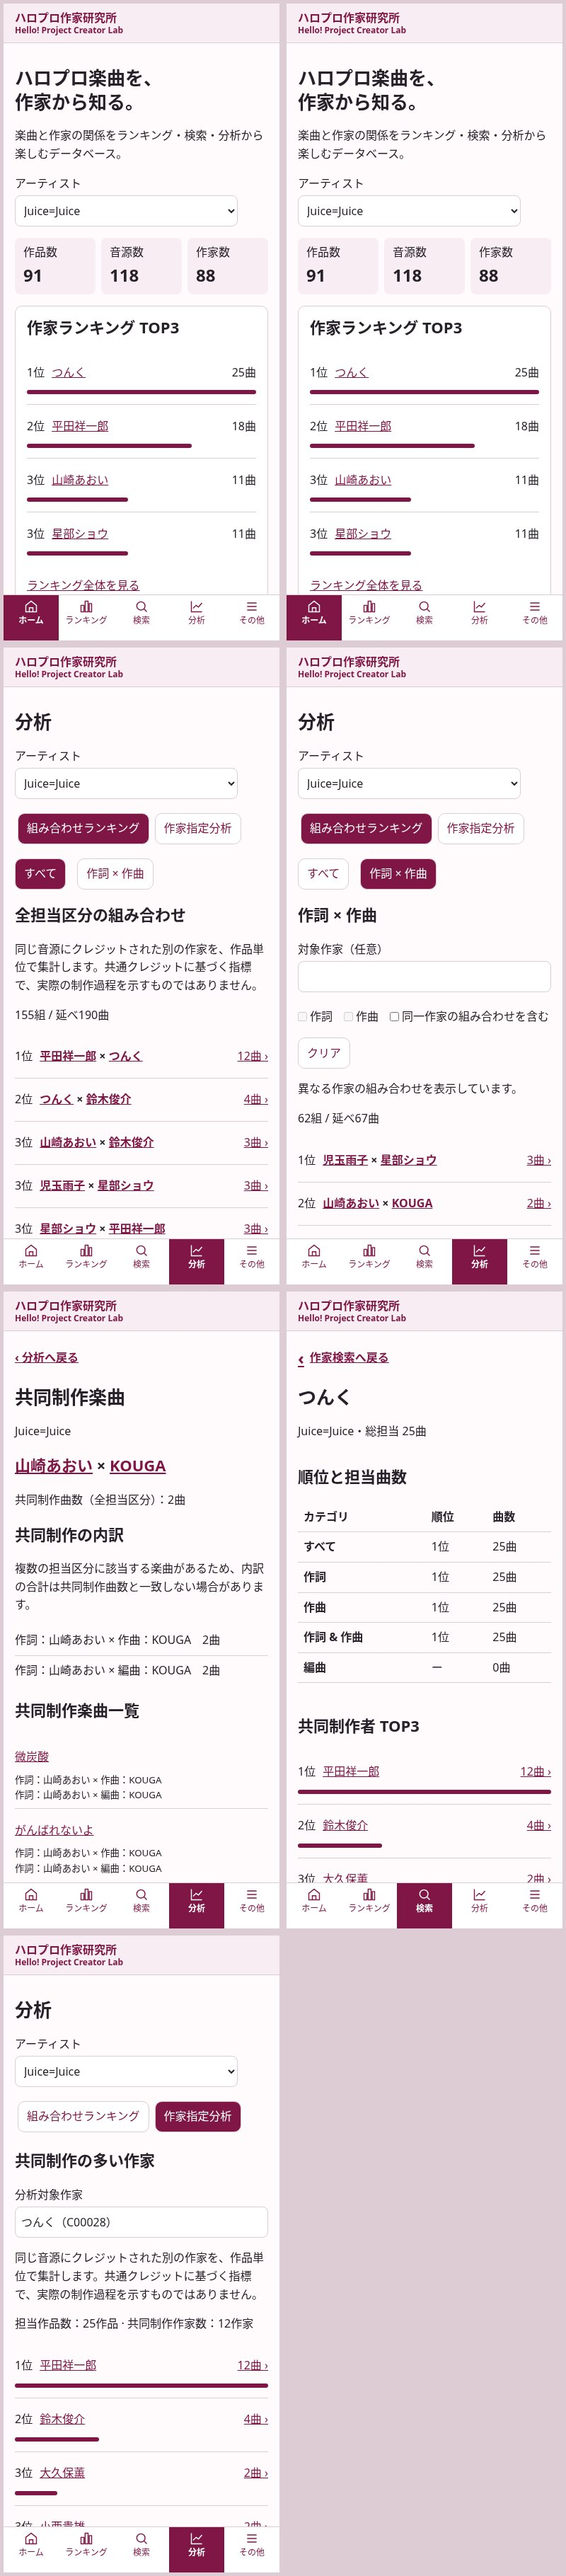
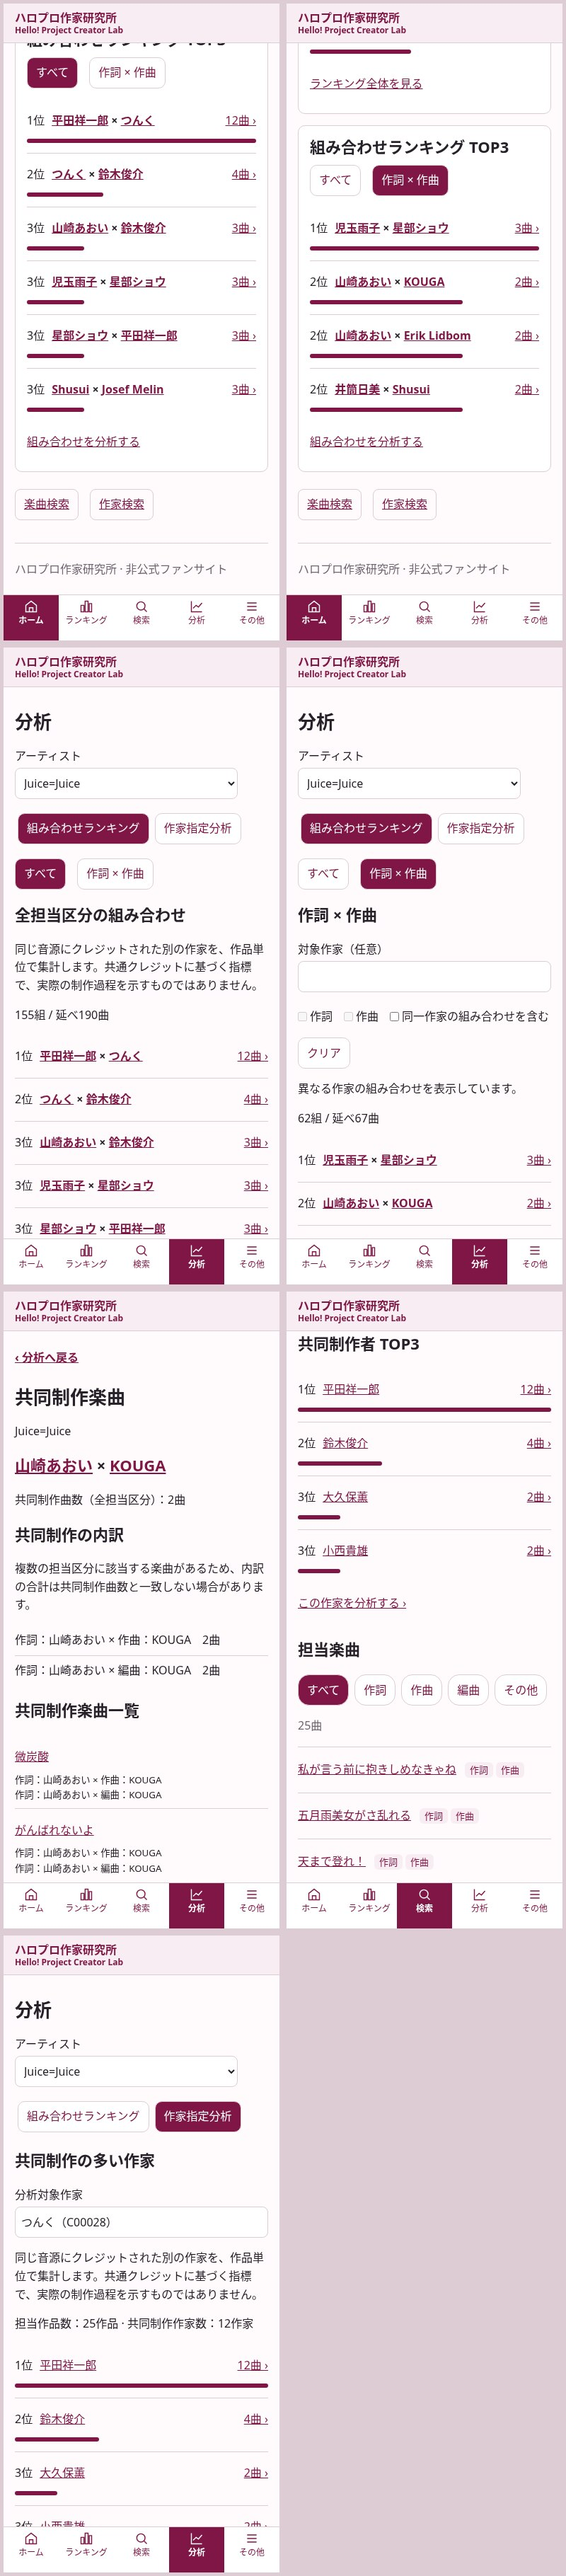
docs: capture the new sections in mobile review evidence

diff --git a/docs/design/screens/mockups/creator-detail.html b/docs/design/screens/mockups/creator-detail.html
@@ -17,7 +17,7 @@
 <p>Juice=Juice · 総担当 11曲</p>
 <div class="mock-creator-grid"><section><h2>順位と担当曲数</h2>
 <table><thead><tr><th scope="col">担当区分</th><th scope="col">順位</th><th scope="col">担当曲数</th></tr></thead><tbody>
-<tr><th scope="row">すべて</th><td>1位</td><td>25曲</td></tr><tr><th scope="row">作詞</th><td>1位</td><td>25曲</td></tr><tr><th scope="row">作曲</th><td>1位</td><td>15曲</td></tr><tr><th scope="row">作詞 &amp; 作曲</th><td>1位</td><td>15曲</td></tr><tr><th scope="row">編曲</th><td>ー</td><td>0曲</td></tr>
+<tr><th scope="row">すべて</th><td>3位</td><td>11曲</td></tr><tr><th scope="row">作詞</th><td>2位</td><td>11曲</td></tr><tr><th scope="row">作曲</th><td>5位</td><td>5曲</td></tr><tr><th scope="row">作詞 &amp; 作曲</th><td>2位</td><td>5曲</td></tr><tr><th scope="row">編曲</th><td>ー</td><td>0曲</td></tr>
 </tbody></table></section><section><h2>共同制作者 TOP3</h2><ol class="rows"><li class="line"><span>1位</span><strong><a href="creator-detail.html">鈴木俊介</a></strong><a href="collaboration-detail.html?pair=C00001-C00035">3曲 ›</a></li>
 <li class="line"><span>2位</span><strong><a href="creator-detail.html">KOUGA</a></strong><a href="collaboration-detail.html?pair=C00001-C00002">2曲 ›</a></li>
 <li class="line"><span>2位</span><strong><a href="creator-detail.html">Erik Lidbom</a></strong><a href="collaboration-detail.html?pair=C00001-C00076">2曲 ›</a></li></ol><a href="analysis.html?tab=creator">この作家を分析する ›</a></section></div>

diff --git a/docs/history/reviews/creator-lab-collaboration.md b/docs/history/reviews/creator-lab-collaboration.md
@@ -52,7 +52,7 @@ npm run site:preview
 
 localhost:4173のホームで両方式を切り替え、曲数リンクから詳細へ進む。直接アクセス例は `/analysis/detail/?artist_id=G00001&creator_id=C00001&partner_id=C00002`。作家名→作家詳細、Work名→楽曲詳細、画面内の戻るリンクとブラウザ履歴を確認する。逆順のIDは昇順へ正規化し、旧分析の根拠指定URLは有効な行なら新詳細へ移行する。
 
-[PC](creator-lab-collaboration/desktop.jpg)・[SP](creator-lab-collaboration/mobile.jpg)の順序はホーム「すべて」、ホーム「作詞×作曲」、分析「すべて」、分析「作詞×作曲」、共同制作詳細、作家詳細、作家指定分析。
+[PC](creator-lab-collaboration/desktop.jpg)・[SP](creator-lab-collaboration/mobile.jpg)の順序はホーム「すべて」、ホーム「作詞×作曲」、分析「すべて」、分析「作詞×作曲」、共同制作詳細、作家詳細、作家指定分析。SPのホームと作家詳細は追加箇所までスクロールした状態を掲載。
 
 ## 検証
 
